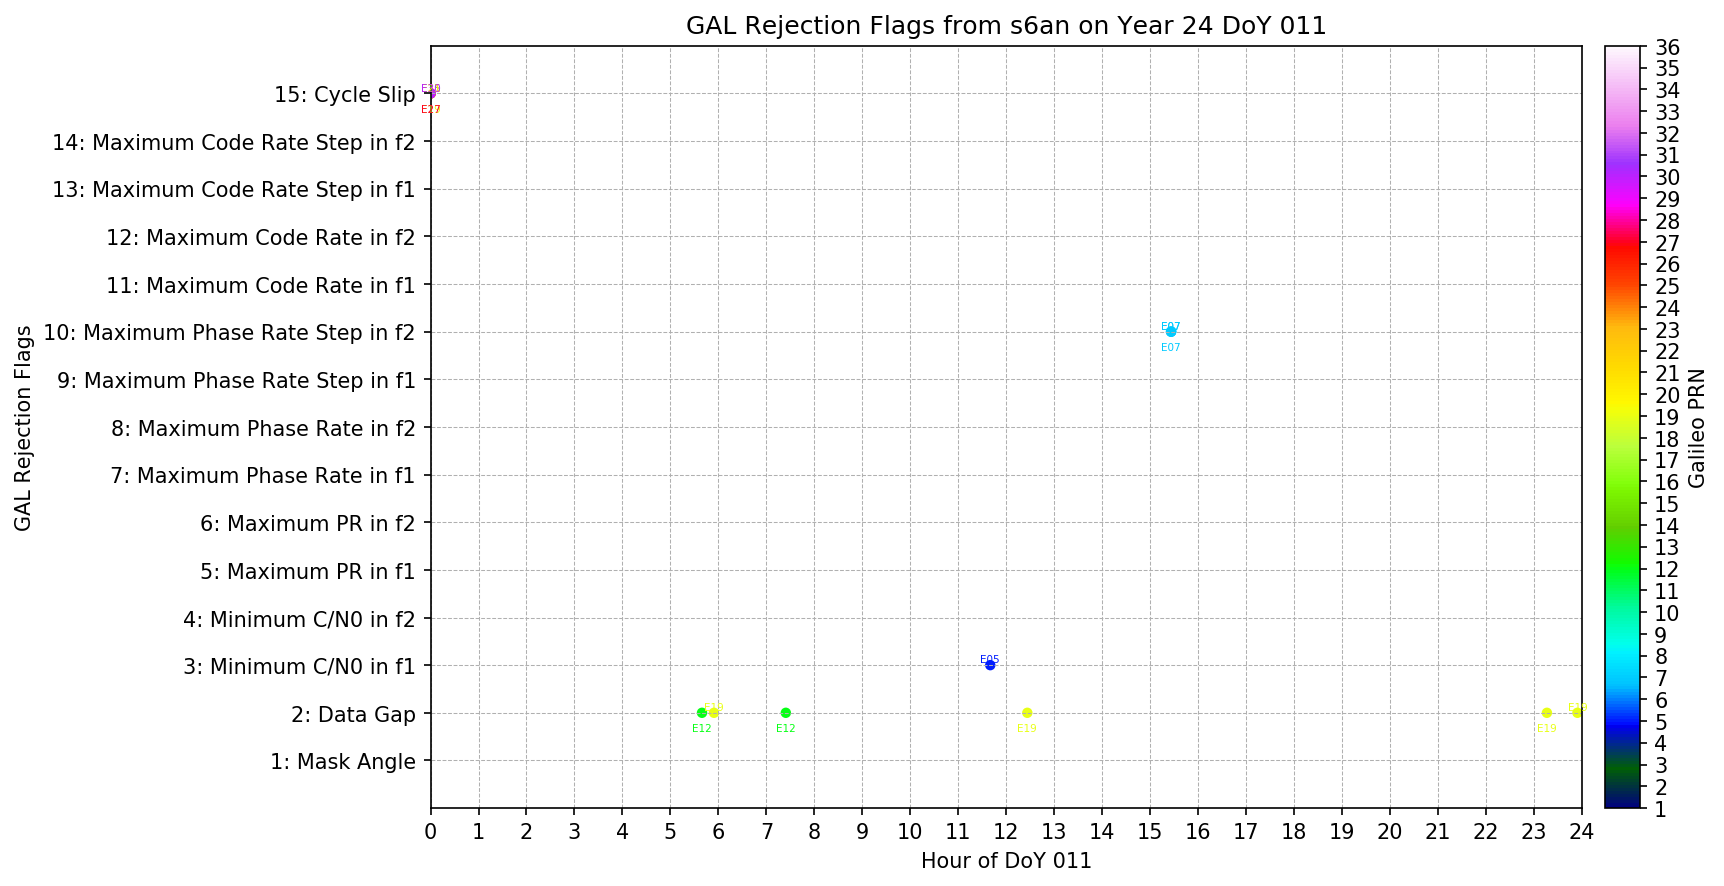
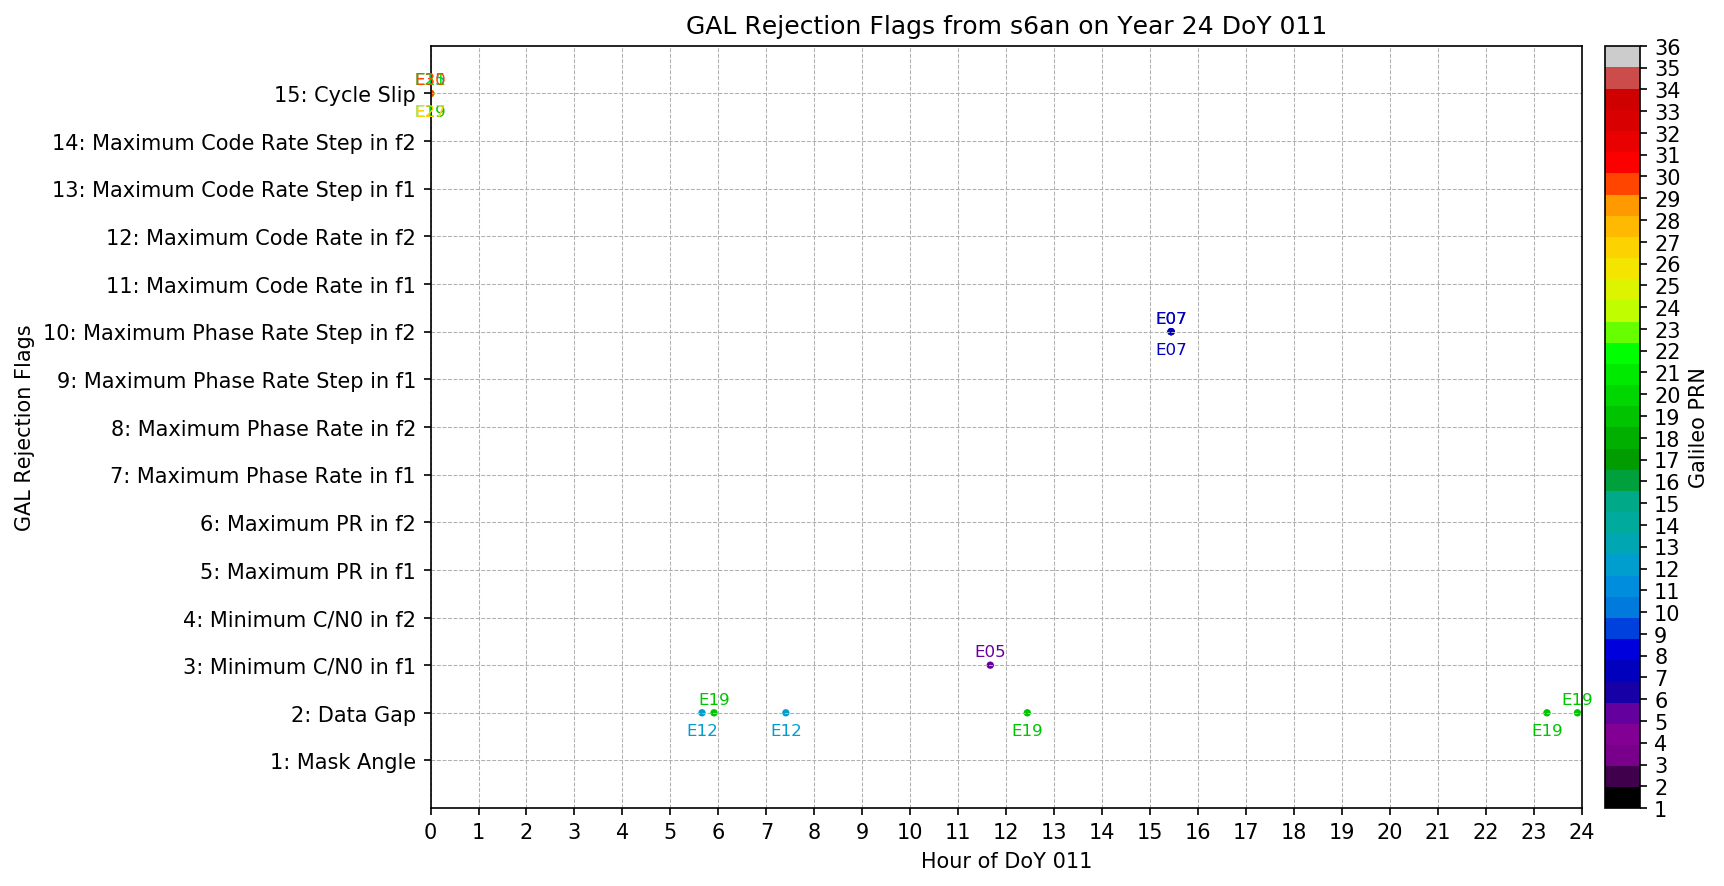
feat(ProprocessingPlots.py, colorbar bins applied)

diff --git a/SRC/COMMON/Plots.py b/SRC/COMMON/Plots.py
@@ -123,15 +123,24 @@ def prepareColorBar(PlotConf, ax, Values, scatter = None):
     color_ax = divider.append_axes("right", size="3%", pad="2%")
     cmap = mpl.cm.get_cmap(PlotConf["ColorBar"])
 
-    try: 
+    if "ColorBarBins" in PlotConf: 
         num_bins = PlotConf["ColorBarBins"]
         bounds = np.linspace(Min, Max, num_bins + 1)
         normalize = mpl.colors.BoundaryNorm(bounds, cmap.N)
-        cbar = mpl.colorbar.ColorbarBase(color_ax, cmap=cmap, norm=normalize,
+        # Calculate midpoints for the bins
+        midpoints = bounds/num_bins
+        
+        # Include Min and Max in the tick labels
+        tick_positions = np.insert(midpoints, 0, Min)
+        tick_positions = np.append(tick_positions, Max)
+
+        cbar = mpl.colorbar.ColorbarBase(color_ax, 
+                                         cmap=cmap, 
+                                         norm=normalize,
                                          label=PlotConf["ColorBarLabel"],
                                          boundaries=bounds,
-                                         ticks=np.linspace(Min, Max, num_bins))
-    except:
+                                         ticks=midpoints)
+    else:
         # Handle the case where ColorBarBins is not provided or other KeyError
         normalize = mpl.cm.colors.Normalize(vmin=Min, vmax=Max)
     
@@ -140,7 +149,11 @@ def prepareColorBar(PlotConf, ax, Values, scatter = None):
                                      label=PlotConf["ColorBarLabel"])
     
     try:
-    #  PlotConf["ColorBarSetTicks"]:
+        # if "ColorBarBins" in PlotConf:
+        #     # Adjust tick labels to display the bin values
+        #     tick_labels = [f'{tick:f}' for tick in tick_positions]
+        #     cbar.set_ticklabels(tick_labels)
+        # else:
         cbar.set_ticks(PlotConf["ColorBarSetTicks"])
         cbar.set_ticklabels(PlotConf["ColorBarSetTicks"])
     except:
@@ -263,11 +276,18 @@ def generateLinesPlot(PlotConf):
 
                         # Alternating Offsets
                         if i %2 ==0:
-                            offset = 5
+                            offset = 10
                         else:
                             offset = -5
 
-                        ax.annotate(text, (x_data[i], y_data[i]), fontsize=5, ha='center', va="top",  color=text_color, xytext=(0, offset), textcoords='offset points')
+                        ax.annotate(text, 
+                                    (x_data[i], y_data[i]), 
+                                    fontsize=8, 
+                                    ha='center', 
+                                    va="top",  
+                                    color=text_color, 
+                                    xytext=(0, offset), 
+                                    textcoords='offset points')
                 else:
                     pass
 

diff --git a/SRC/PreprocessingPlots.py b/SRC/PreprocessingPlots.py
@@ -571,14 +571,14 @@ def plotRejectionFlags(PreproObsFile, PreproObsData):
         "LineWidth" : 0,
         "Grid" : 1,
 
-        "ColorBar" : "gist_ncar",
+        "ColorBar" : "nipy_spectral",
         "ColorBarLabel" : "Galileo PRN",
         "ColorBarMin" : min(gal_prn),
         "ColorBarMax" : max(gal_prn),
         "ColorBarSetTicks": sorted(gal_prn),
-        "ColoBarBins": len(gal_prn), 
+        "ColorBarBins": len(gal_prn), 
 
-        "s" : 100, 
+        "s" : 50, 
         "Label" : 0,
         
         "Annotations": {0: PreproObsDataGalileo[PreproIdx["PRN"]]},
@@ -609,14 +609,14 @@ def plotRejectionFlags(PreproObsFile, PreproObsData):
         "LineWidth" : 0,
         "Grid" : 1,
 
-        "ColorBar" : "gist_ncar",
+        "ColorBar" : "nipy_spectral",
         "ColorBarLabel" : "GPS PRN",
         "ColorBarMin" : min(gps_prn),
         "ColorBarMax" : max(gps_prn),
         "ColorBarSetTicks": sorted(gps_prn),
-        "ColoBarBins": len(gps_prn), 
+        "ColorBarBins": len(gps_prn), 
 
-        "s" : 100, 
+        "s" : 50, 
         "Label" : 0,
         
         "Annotations": {0: PreproObsDataGPS[PreproIdx["PRN"]]},
